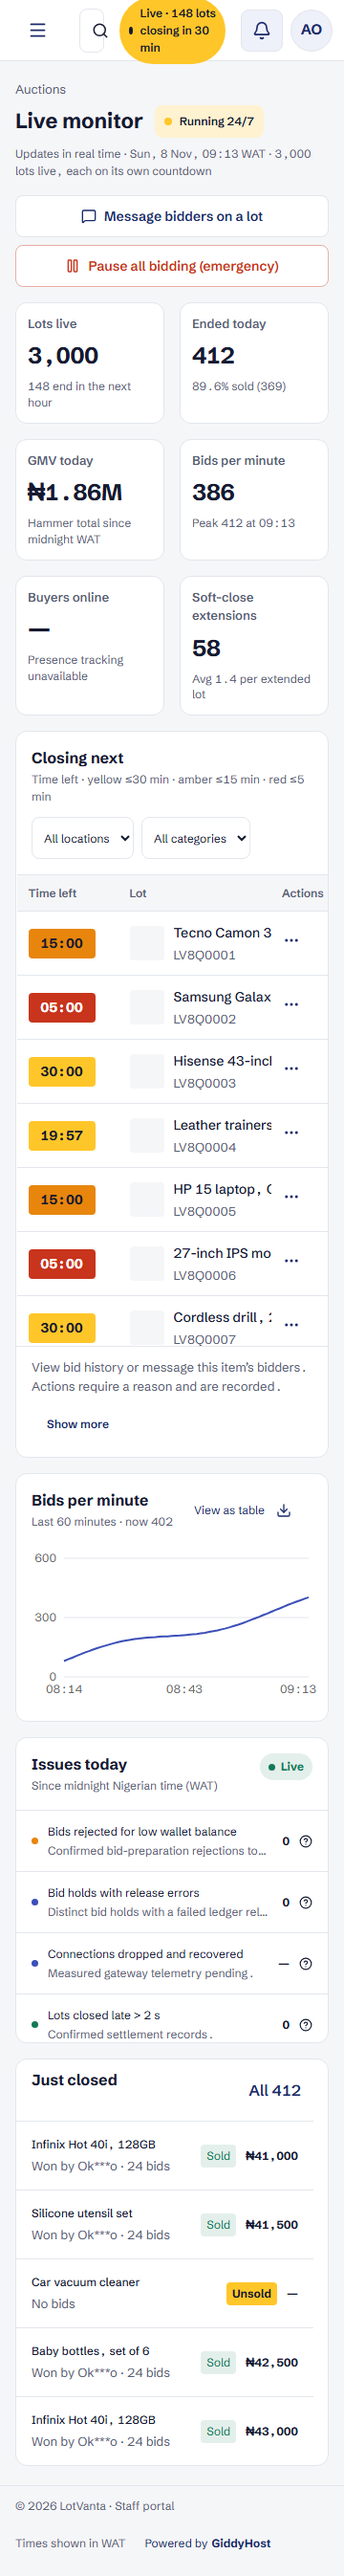
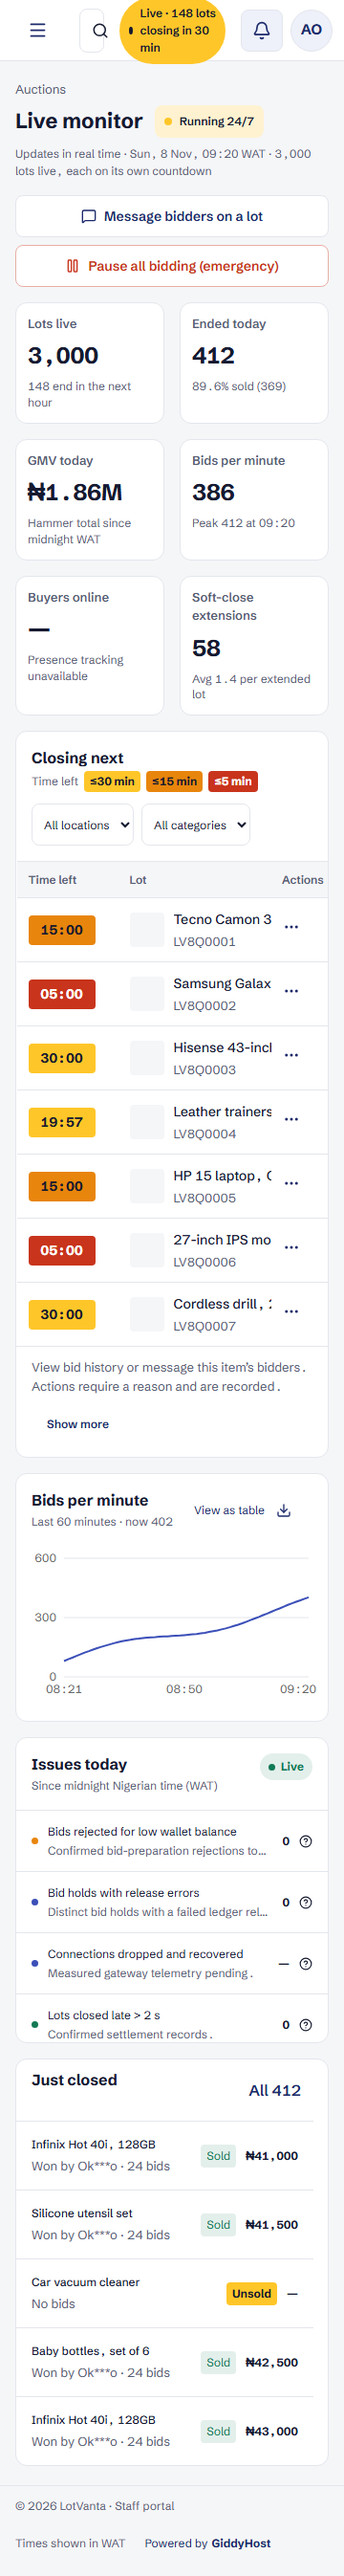
style(admin): show coloured countdown legend badges

Changed region(s): [[0.0611, 0.2807, 0.7944, 0.5303], [0.825, 0.3431, 0.8861, 0.3743]]

diff --git a/packages/ui/admin/live-monitor-view.tsx b/packages/ui/admin/live-monitor-view.tsx
@@ -22,6 +22,7 @@ import {
   monitorSecondsLeft,
   monitorTimerText,
   monitorTimerTone,
+  monitorClosingRules,
   type MonitorLot,
   type MonitorSummary,
   type MonitorSeries,
@@ -56,7 +57,7 @@ export function MonitorFrame<T>({
   className = '',
 }: {
   title: string;
-  subtitle?: string;
+  subtitle?: ReactNode;
   state: LivePanel<T>;
   children: (value: T) => ReactNode;
   actions?: ReactNode;
@@ -98,6 +99,26 @@ export function MonitorFrame<T>({
         <p className="lv-monitor-empty">No data is available yet.</p>
       ) : null}
     </section>
+  );
+}
+export function MonitorTimerLegend() {
+  return (
+    <span className="lv-monitor-legend" aria-label="Time left colour guide">
+      <span>Time left</span>
+      {(['closing', 'warning', 'danger'] as const).map((tone) => (
+        <span key={tone} className={'lv-monitor-timer is-' + tone}>
+          ≤
+          {monitorClosingRules[
+            tone === 'closing'
+              ? 'closingMs'
+              : tone === 'warning'
+                ? 'warningMs'
+                : 'dangerMs'
+          ] / 60000}{' '}
+          min
+        </span>
+      ))}
+    </span>
   );
 }
 export function LiveMonitorHeader({

diff --git a/tests/e2e/staff-live-monitor.spec.ts b/tests/e2e/staff-live-monitor.spec.ts
@@ -309,6 +309,19 @@ test('changes countdown badge colours at 30, 15 and 5 minutes without refreshing
   page,
 }) => {
   await fixture(page, { thresholds: true });
+  const legend = page.getByLabel('Time left colour guide');
+  await expect(legend.locator('.is-closing')).toHaveText('≤30 min');
+  await expect(legend.locator('.is-warning')).toHaveText('≤15 min');
+  await expect(legend.locator('.is-danger')).toHaveText('≤5 min');
+  expect(
+    await legend
+      .locator('.is-closing')
+      .evaluate((node) => getComputedStyle(node).backgroundColor),
+  ).not.toBe(
+    await legend
+      .locator('.is-warning')
+      .evaluate((node) => getComputedStyle(node).backgroundColor),
+  );
   const timers = page.locator('.lv-monitor-table .lv-monitor-timer');
   await expect(
     page.getByText('Live · 148 lots closing in 30 min', { exact: true }),

diff --git a/apps/admin/app/live-monitor.tsx b/apps/admin/app/live-monitor.tsx
@@ -29,6 +29,7 @@ import {
   MonitorIssuesCard,
   MonitorClosedCard,
   MonitorFrame,
+  MonitorTimerLegend,
   type LivePanel,
 } from '@auction-ng/ui/admin/live-monitor-view';
 import { Button } from '@auction-ng/ui/web/button';
@@ -397,7 +398,7 @@ export function LiveMonitor({
       <div className="lv-monitor-columns">
         <MonitorFrame
           title="Closing next"
-          subtitle="Time left · yellow ≤30 min · amber ≤15 min · red ≤5 min"
+          subtitle={<MonitorTimerLegend />}
           state={lots}
           className="lv-monitor-closing"
           actions={

diff --git a/packages/ui/admin/live-monitor.css b/packages/ui/admin/live-monitor.css
@@ -306,6 +306,18 @@
   background: var(--color-outbid-600);
   color: var(--color-surface);
 }
+.lv-monitor-legend {
+  display: inline-flex;
+  align-items: center;
+  flex-wrap: wrap;
+  gap: 6px;
+}
+.lv-monitor-legend .lv-monitor-timer {
+  min-width: 0;
+  padding: 3px 6px;
+  font-size: 12px;
+  line-height: 16px;
+}
 .lv-monitor-item {
   display: flex;
   gap: 10px;

diff --git a/docs/TASKS.md b/docs/TASKS.md
@@ -174,6 +174,8 @@ The admin is built in eight smaller tasks. Every one follows `docs/ADMIN_DESIGN.
 
 ### [ ] T15d — Overview dashboards
 
+**Countdown legend (2026-11-08):** Closing next uses coloured yellow/amber/red threshold badges sourced from the same shared rules as its timers. Targeted responsive/browser, admin lint/types and build checks cover the presentation change; T15d remains open. A global buyer pause popup was discussed as a recommendation, not implemented in this correction.
+
 **Monitor closing urgency (2026-11-08):** header uses an actual thirty-minute count; shared timer rules show yellow at ≤30 minutes, amber at ≤15 and red at ≤5, with neutral timers beyond thirty minutes. Browser server-clock ticks update colours without reload; paused remaining time feeds the count too. Twenty-four targeted rules/snapshot checks, a live boundary-transition browser check, affected types/lint and API/admin builds pass. T15d remains open.
 
 **Buyer pause correction (2026-11-08):** catalogue/home/watchlist clocks now honour the server's frozen timestamp, home grouping retains paused lots and visible item-panel notices explain the pause. Shared realtime handling immediately invalidates action state on control changes and ignores acknowledgements/updates from the prior phase. New bid/Buy Now controls, including open mobile confirmation sheets, are disabled while paused or awaiting confirmation; existing payment reconciliation remains unchanged. Focused client/Lua/home regressions and three browser pause/resume checks pass. No auction or payment rule changed; T15d remains open.

diff --git a/docs/decisions.md b/docs/decisions.md
@@ -527,3 +527,5 @@ Pending deposit cancellation (2026-10-31, owner confirmed): buyers may close own
 2026-11-08: Correct buyer pause presentation across web/mobile using server pausedAt as the frozen clock, fail-closed action state during control resynchronisation, and neutral disabled bid/purchase buttons. Keep existing payment reconciliation and exact accepted-request retries; no wallet/deposit/withdrawal rules change. Main item panels must explain the pause. Do not silently resume the owner's actual marketplace during testing.
 
 2026-11-08: Owner aligns the staff Live monitor with the thirty-minute marketplace closing window. Show yellow through thirty minutes, amber at fifteen minutes or less, and red at five minutes or less; neutral above thirty or when time is unavailable. Header must use an actual thirty-minute count, preserving the legacy fifteen-minute field. Colours follow authoritative clock ticks and frozen pause time without manual refresh.
+
+2026-11-08: Owner requests coloured badges in the Live monitor time-left legend. Reuse countdown tone classes and shared thresholds so the legend and timers stay consistent. The proposed global buyer pause popup remains a recommendation pending a separate implementation request.

diff --git a/docs/design/admin-live-monitor/README.md b/docs/design/admin-live-monitor/README.md
@@ -1,5 +1,7 @@
 # Live monitor visual review
 
+The urgency captures also show the coloured threshold legend. The focused browser check verifies its badge labels and distinct colours using the same CSS tone classes as countdown timers.
+
 `urgency-{360,768,1280}.png` shows yellow, amber and red countdown badges and the thirty-minute header count. Its synthetic browser fixture crosses the 30/15/5-minute boundaries while the page stays open, with no navigation or reload. Shared boundary and snapshot tests independently verify threshold/count correctness.
 
 `footer-live-{360,768,1280}.png` shows the shared staff footer, green Live pill and explicit legacy-duration state. Targeted checks verify the pulse and reduced-motion override, recorded/missing durations, footer link and absence of horizontal page overflow. Screenshots use synthetic review fixtures.
